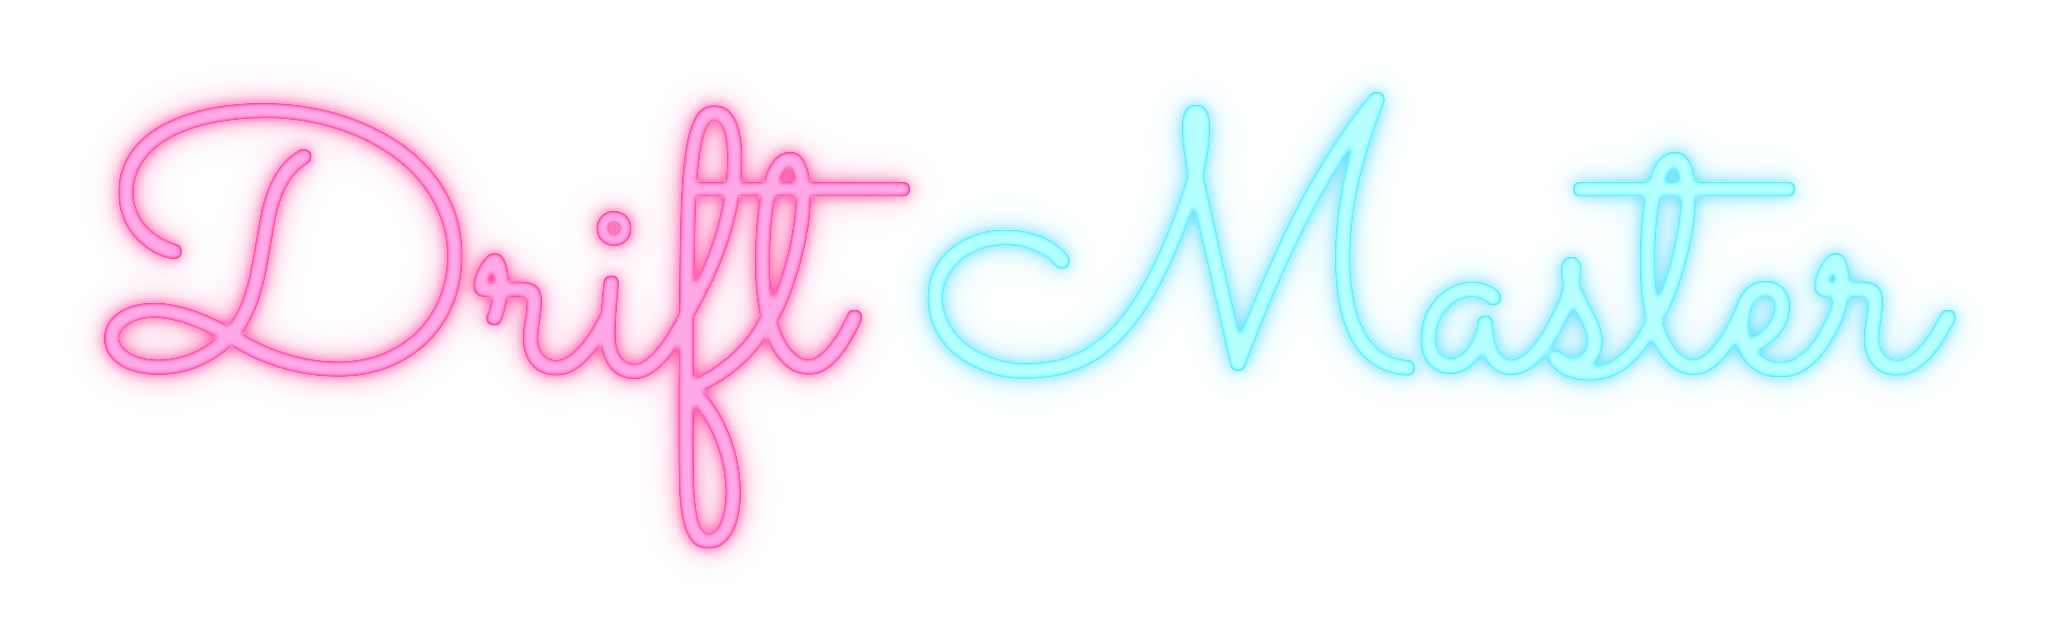
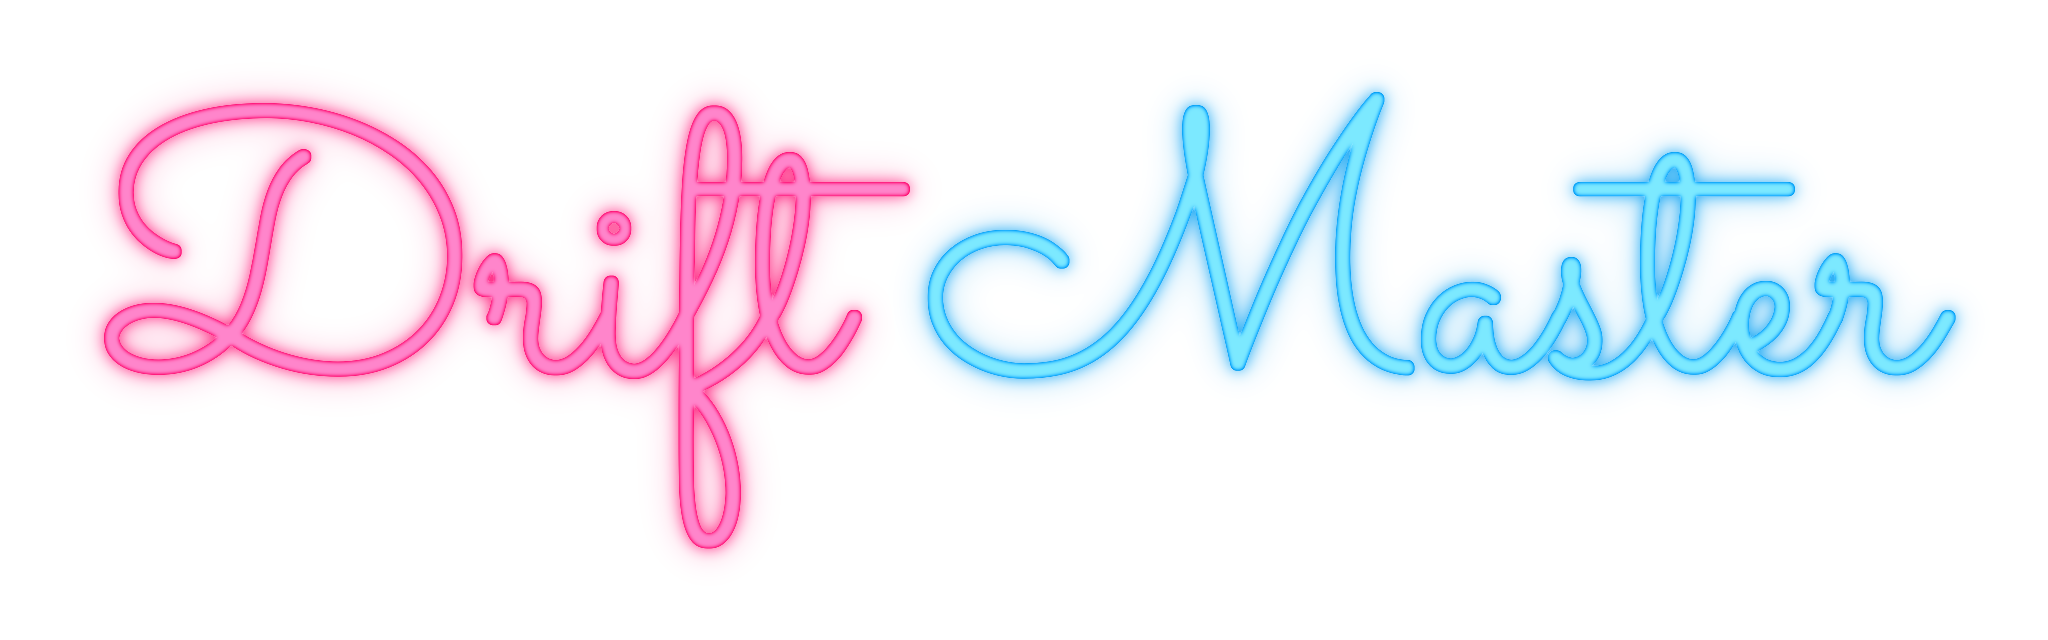
Desktop: neon sign on the light wall
- The end wall is back to the light paint; the sign's glow is a wash of colour on it, the tubes are deeper in colour
- Black flex and transformer
- Floor texture coordinates worked out per vertex

Claude-Session: https://claude.ai/code/session_01QkfUc2Tbeq4bUawqwEUu3K

diff --git a/desktop/scripts/Hall.cs b/desktop/scripts/Hall.cs
@@ -31,14 +31,13 @@ namespace DriftMaster {
       var root = new Node3D { Name = "Hall" };
       float hx = (float)t.HallX, hz = (float)t.HallZ;
       var floorMat = FloorMat(t);
-      var floor = new MeshInstance3D { Mesh = new PlaneMesh { Size = new Vector2(hx * 2, hz * 2), SubdivideWidth = 17, SubdivideDepth = 9 }, MaterialOverride = floorMat, CastShadow = GeometryInstance3D.ShadowCastingSetting.Off }; root.AddChild(floor);
+      var floor = new MeshInstance3D { Mesh = new PlaneMesh { Size = new Vector2(hx * 2, hz * 2) }, MaterialOverride = floorMat, CastShadow = GeometryInstance3D.ShadowCastingSetting.Off }; root.AddChild(floor);
 
       // walls: painted plaster and a dark skirting board, nothing else
       var wall = Mat("wall.jpg", new Color(0.93f, 0.93f, 0.9f), 0.9f); wall.Uv1Triplanar = true; wall.Uv1WorldTriplanar = true; wall.Uv1Scale = Vector3.One / 2.2f;
       var skirt = Mat(null, new Color(0.13f, 0.14f, 0.15f), 0.6f);
-      var signWall = Mat("wall.jpg", new Color(0.13f, 0.135f, 0.15f), 0.85f); signWall.Uv1Triplanar = true; signWall.Uv1WorldTriplanar = true; signWall.Uv1Scale = Vector3.One / 2.2f;
       foreach (int s in new[] { -1, 1 }) {
-        Box(root, new Vector3(hx * 2, CeilY, 0.06f), new Vector3(0, CeilY / 2, s * (hz + 0.03f)), s < 0 ? signWall : wall); // the wall with the neon sign is painted dark, so the sign reads
+        Box(root, new Vector3(hx * 2, CeilY, 0.06f), new Vector3(0, CeilY / 2, s * (hz + 0.03f)), wall);
         Box(root, new Vector3(0.06f, CeilY, hz * 2), new Vector3(s * (hx + 0.03f), CeilY / 2, 0), wall);
         Box(root, new Vector3(hx * 2, 0.07f, 0.012f), new Vector3(0, 0.035f, s * (hz - 0.006f)), skirt);
         Box(root, new Vector3(0.012f, 0.07f, hz * 2), new Vector3(s * (hx - 0.006f), 0.035f, 0), skirt);
@@ -166,7 +165,7 @@ namespace DriftMaster {
       float hz = (float)t.HallZ, wz = -hz; const float cy = 1.6f, w = 3.0f, h = w * 640f / 2048f;
       Texture2D tx(string f) => GD.Load<Texture2D>("res://assets/tex/" + f);
       // light on the wall behind the tubes
-      var glowM = new StandardMaterial3D { ShadingMode = BaseMaterial3D.ShadingModeEnum.Unshaded, AlbedoTexture = tx("neon_glow.jpg"), BlendMode = BaseMaterial3D.BlendModeEnum.Add, Transparency = BaseMaterial3D.TransparencyEnum.Alpha, AlbedoColor = new Color(0.8f, 0.8f, 0.8f) };
+      var glowM = new StandardMaterial3D { ShadingMode = BaseMaterial3D.ShadingModeEnum.Unshaded, AlbedoTexture = tx("neon_glow.png"), Transparency = BaseMaterial3D.TransparencyEnum.Alpha }; // on a light wall the glow is a wash of colour, not added brightness
       root.AddChild(new MeshInstance3D { Mesh = new QuadMesh { Size = new Vector2(w * 2, h * 2) }, Position = new Vector3(0, cy, wz + 0.004f), MaterialOverride = glowM, CastShadow = GeometryInstance3D.ShadowCastingSetting.Off, Name = "NeonGlow" });
       // the tubes, standing 3 cm off the wall on small clear posts
       var tubeM = new StandardMaterial3D { ShadingMode = BaseMaterial3D.ShadingModeEnum.Unshaded, AlbedoTexture = tx("neon_tube.png"), Transparency = BaseMaterial3D.TransparencyEnum.Alpha, TextureFilter = BaseMaterial3D.TextureFilterEnum.LinearWithMipmapsAnisotropic };
@@ -177,7 +176,7 @@ namespace DriftMaster {
       root.AddChild(new OmniLight3D { Position = new Vector3(-0.8f, cy, wz + 0.45f), LightColor = new Color(1f, 0.2f, 0.58f), LightEnergy = 0.55f, OmniRange = 3.6f, OmniAttenuation = 1.4f });
       root.AddChild(new OmniLight3D { Position = new Vector3(0.65f, cy, wz + 0.45f), LightColor = new Color(0.3f, 0.85f, 1f), LightEnergy = 0.5f, OmniRange = 3.6f, OmniAttenuation = 1.4f });
       // transformer under the right-hand end, two thin leads up to the tube ends
-      var black = Mat(null, new Color(0.035f, 0.035f, 0.04f), 0.55f); var white = Mat(null, new Color(0.9f, 0.9f, 0.88f), 0.4f); var cord = Mat(null, new Color(0.82f, 0.82f, 0.8f), 0.5f); // white flex and a white transformer, so they show on the dark wall
+      var black = Mat(null, new Color(0.035f, 0.035f, 0.04f), 0.55f); var white = Mat(null, new Color(0.9f, 0.9f, 0.88f), 0.4f); var cord = black; // black flex and transformer against the light wall
       var tr = new Vector3(1.5f, cy - 0.52f, wz + 0.022f); Box(root, new Vector3(0.16f, 0.07f, 0.044f), tr, cord);
       Cable(root, new Vector3(1.4f, cy - 0.13f, wz + 0.03f), new Vector3(1.38f, cy - 0.36f, wz + 0.02f), new Vector3(1.45f, cy - 0.38f, wz + 0.02f), tr + new Vector3(-0.05f, 0.035f, 0), 0.0022f, cord);
       Cable(root, new Vector3(-1.41f, cy - 0.2f, wz + 0.03f), new Vector3(-1.38f, cy - 0.56f, wz + 0.012f), new Vector3(0.4f, cy - 0.5f, wz + 0.012f), tr + new Vector3(-0.08f, 0, 0), 0.0022f, cord);

diff --git a/desktop/tools/make_textures.py b/desktop/tools/make_textures.py
@@ -146,7 +146,7 @@ Image.fromarray(((0.5 + ro).clip(0, 1) * 255).astype(np.uint8)).save(f'{out}/flo
 
 # ---- neon sign "Drift Master": glass tube lettering in a single-stroke script (Sacramento, SIL OFL), "Drift" in pink and
 # "Master" in ice blue. neon_tube.png is the lit tube (white-hot down the middle, colour at the glass, a tight halo);
-# neon_glow.jpg is the light it throws on the wall behind, added on top of the wall.
+# neon_glow.png is the wash of colour it throws on the light wall behind (colour + how strongly it tints).
 from PIL import ImageFont
 NW, NH = 2048, 640
 font = ImageFont.truetype(os.path.join(os.path.dirname(os.path.abspath(__file__)), 'fonts', 'Sacramento-Regular.ttf'), 372)
@@ -155,17 +155,18 @@ def word_mask(txt_all, part):
     ox, oy = (NW - (bb[2] - bb[0])) / 2 - bb[0], (NH - (bb[3] - bb[1])) / 2 - bb[1]
     pre = txt_all[:txt_all.index(part)]; d.text((ox + d.textlength(pre, font=font), oy), part, font=font, fill=255)
     return np.asarray(im.filter(ImageFilter.MaxFilter(3))).astype(np.float32) / 255
-tube = np.zeros((NH, NW, 4), np.float32); glow = np.zeros((NH * 2, NW * 2, 3), np.float32)
-for part, col in (('Drift', (1.0, 0.16, 0.55)), ('Master', (0.25, 0.85, 1.0))):
+tube = np.zeros((NH, NW, 4), np.float32); glow = np.zeros((NH * 2, NW * 2, 3), np.float32); gsum = np.zeros((NH * 2, NW * 2), np.float32)
+for part, col in (('Drift', (1.0, 0.05, 0.45)), ('Master', (0.0, 0.62, 0.95))):
     m = word_mask('Drift Master', part); c = np.array(col, np.float32)
-    core = np.clip(gaussian_filter(m, 2.2) * 1.5 - 0.7, 0, 1)                 # hottest along the middle of the tube
+    core = np.clip(gaussian_filter(m, 2.2) * 1.5 - 0.8, 0, 1)                 # hottest along the middle of the tube
     halo = gaussian_filter(m, 7) * 0.9 + gaussian_filter(m, 18) * 0.5
     rgbt = c[None, None, :] * (1 - core[..., None]) + core[..., None] * (0.45 + 0.55 * c[None, None, :]) + core[..., None] * 0.25
     a = np.clip(np.maximum(m, halo * 0.75), 0, 1)
     tube[..., :3] = np.where(a[..., None] > tube[..., 3:4], np.where(m[..., None] > 0.02, rgbt, c[None, None, :]), tube[..., :3]); tube[..., 3] = np.maximum(tube[..., 3], a)
     big = np.zeros((NH * 2, NW * 2), np.float32); big[NH // 2:NH // 2 + NH, NW // 2:NW // 2 + NW] = m
     g = gaussian_filter(big, 45) * 2.2 + gaussian_filter(big, 130) * 3.2
-    glow += g[..., None] * c[None, None, :]
+    glow += g[..., None] * c[None, None, :]; gsum += g
 Image.fromarray((tube.clip(0, 1) * 255).astype(np.uint8), 'RGBA').save(f'{out}/neon_tube.png', optimize=True)
-Image.fromarray((glow.clip(0, 1) * 255).astype(np.uint8)).resize((1024, 320), Image.LANCZOS).save(f'{out}/neon_glow.jpg', quality=90)
+gcol = glow / np.maximum(gsum[..., None], 1e-4); ga = np.clip(gsum * 0.55, 0, 0.8)
+Image.fromarray((np.dstack([gcol.clip(0, 1), ga]) * 255).astype(np.uint8), 'RGBA').resize((1024, 320), Image.LANCZOS).save(f'{out}/neon_glow.png', optimize=True)
 print('ok')

diff --git a/desktop/README.md b/desktop/README.md
@@ -28,7 +28,7 @@ Open the `desktop` folder in Godot 4.6 (.NET edition) and press Play, or export 
 - **Physics** (`scripts/CarPhysics.cs`, `scripts/Track.cs`): a C# port of the browser version's car model, stepped at 720 Hz. It has no engine types, so it can be tested outside Godot. On the same inputs it follows the browser version to within a few centimetres over 14 seconds of sliding.
 - **Hall** (`scripts/Hall.cs`): built in code, 9.0 x 5.0 m, just big enough for the layout. Photo textures on simple shapes, few materials, the OpenGL (Compatibility) renderer, one shadowed light and one reflection probe, so it suits integrated graphics.
 - **Floor**: black P-tile (304.8 mm vinyl composition tiles), drawn after a photo of real drift-track tile, under a wear sheet for the whole hall: dust, lanes the cars keep polished, dried spills, chips, cracked corners, old tape and paint, scratches and tyre lines (`tools/make_textures.py`, `assets/floor.gdshader`). The floor is not perfectly flat either: tile steps, joints, undulation and a few humps are felt through the springs (`Track.MicroH`).
-- **Neon sign**: "Drift Master" in glass-tube script on the dark end wall, with its transformer, leads and a flex hanging down to a wall socket. It lights the wall and the room and shows in the floor. There is no other decoration: only the room and the track. The lettering is drawn with Sacramento (SIL Open Font License, `tools/fonts/`).
+- **Neon sign**: "Drift Master" in glass-tube script on the end wall, with its transformer, leads and a flex hanging down to a wall socket. It washes the wall with colour, lights the room and shows in the floor. There is no other decoration: only the room and the track. The lettering is drawn with Sacramento (SIL Open Font License, `tools/fonts/`).
 - **No engine splash**: the boot image is switched off in `project.godot` (black screen until the game appears).
 - **Car** (`assets/sedan.glb`): the sedan exported from the browser version, parts merged by material.
 
